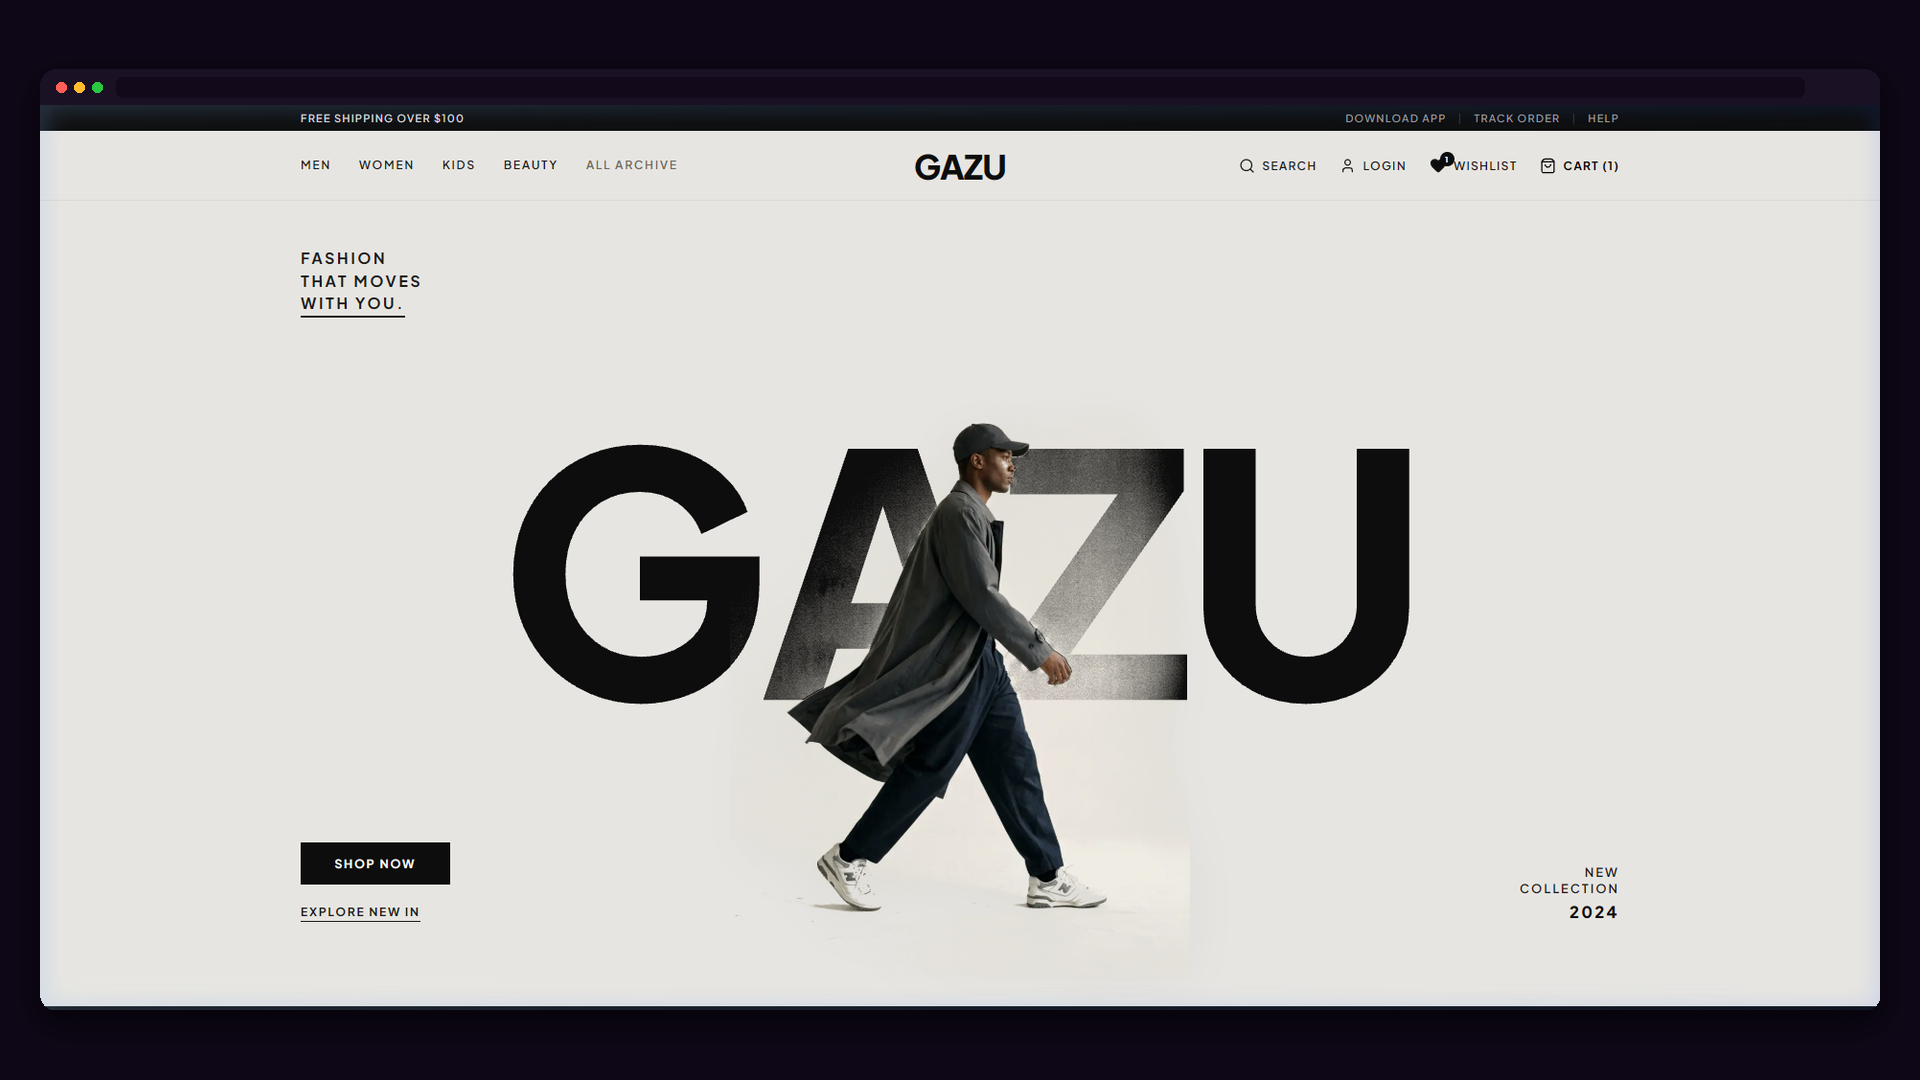
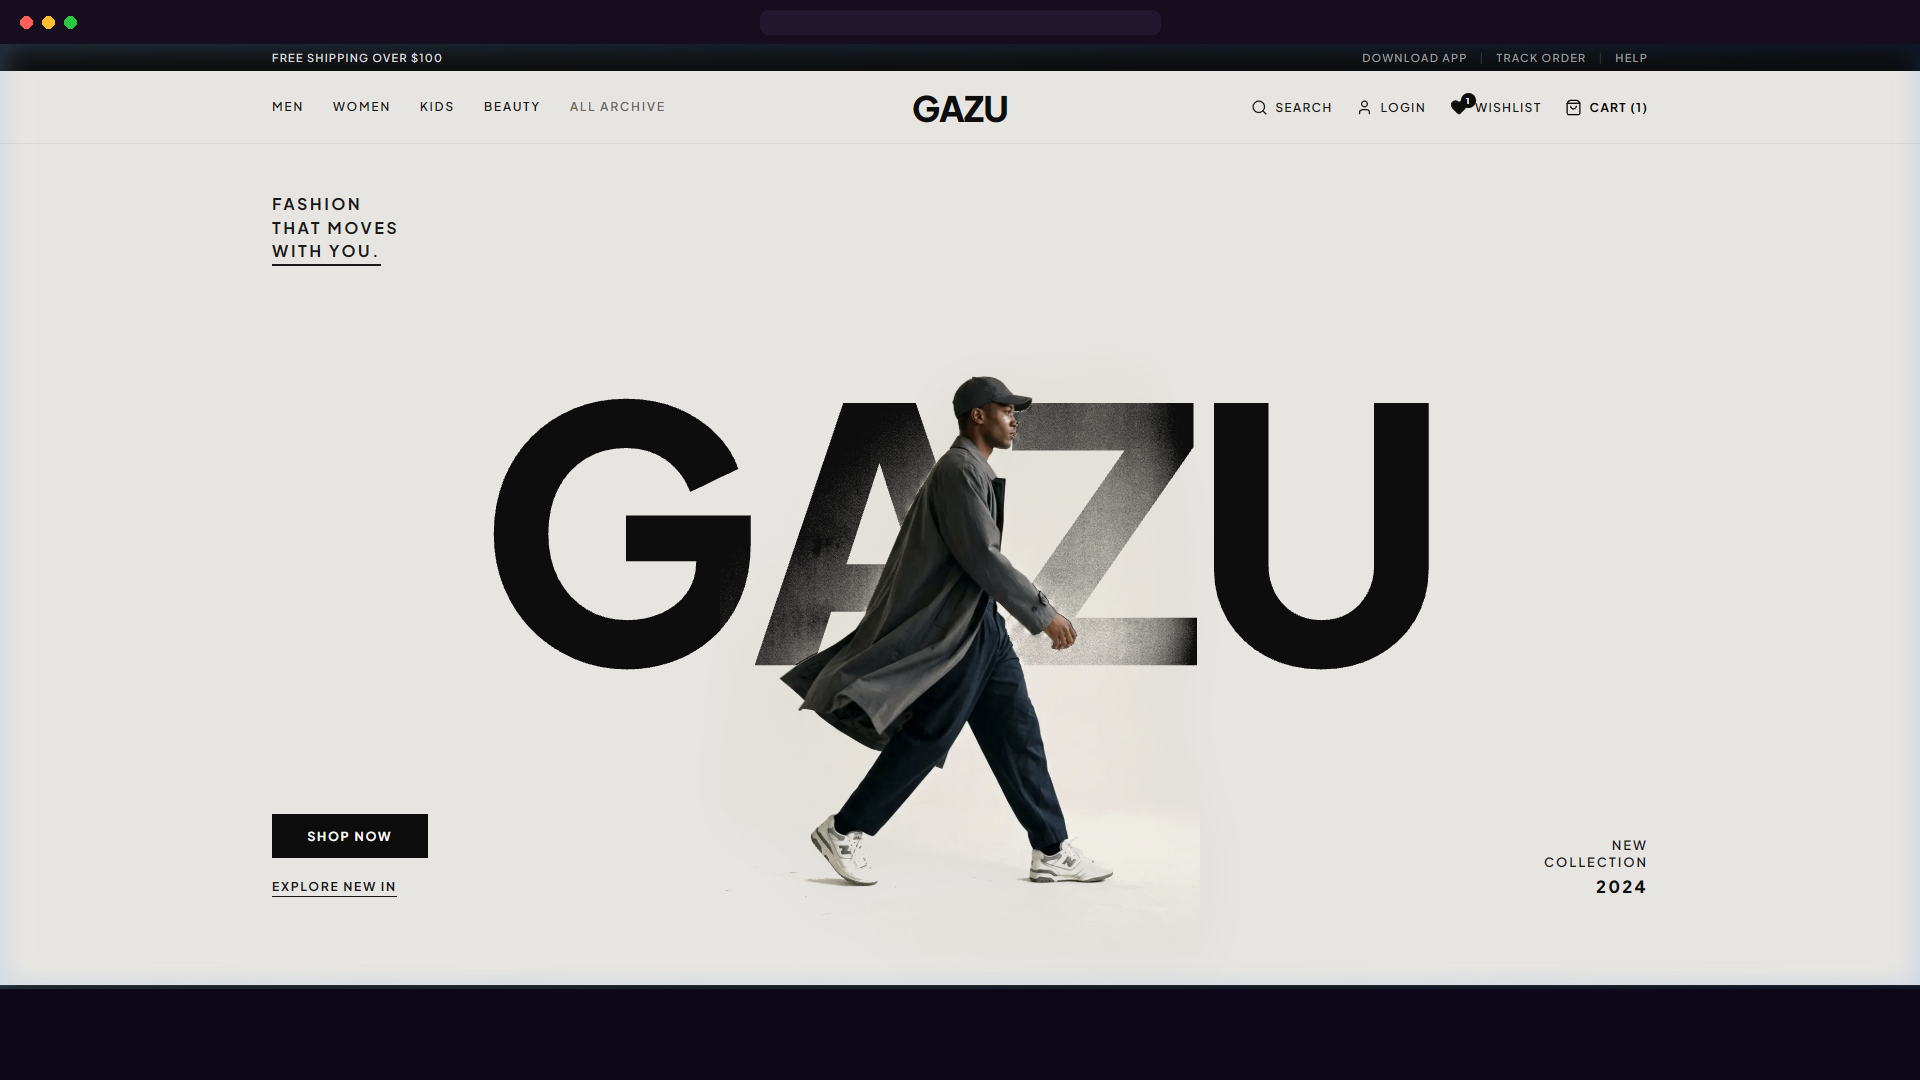
style(projects): expand container to 7xl, reduce card padding and make mockups edge-to-edge

diff --git a/app/components/Projects.tsx b/app/components/Projects.tsx
@@ -53,7 +53,7 @@ export default function Projects() {
       id="projects"
       className="py-24 sm:py-32 px-4 relative z-10 bg-[#0f0715]"
     >
-      <div className="container mx-auto max-w-6xl">
+      <div className="container mx-auto max-w-7xl">
         {/* GEROLD'S CENTERED SECTION HEADER */}
         <div className="text-center max-w-2xl mx-auto mb-10 sm:mb-14">
           <h2 className="text-3xl sm:text-4xl lg:text-5xl font-extrabold tracking-tight mb-4">
@@ -103,7 +103,7 @@ export default function Projects() {
             >
               <Link
                 href={`/projects/${project.slug}`}
-                className="group relative block rounded-[32px] bg-[#140c1c] border border-white/10 hover:border-[#8750f7]/60 p-5 sm:p-7 md:p-8 transition-all duration-500 overflow-hidden hover:shadow-2xl hover:shadow-[#8750f7]/25"
+                className="group relative block rounded-[28px] sm:rounded-[32px] bg-[#140c1c] border border-white/10 hover:border-[#8750f7]/60 p-3.5 sm:p-5 md:p-6 transition-all duration-500 overflow-hidden hover:shadow-2xl hover:shadow-[#8750f7]/25"
               >
                 {/* Framed Image Container (16:9 widescreen to fit app captures without crops) */}
                 <div className="relative aspect-[16/9] w-full rounded-2xl sm:rounded-[24px] overflow-hidden bg-[#09040d]">
@@ -112,7 +112,7 @@ export default function Projects() {
                       src={project.heroImage}
                       alt={project.title}
                       fill
-                      sizes="(max-width: 1024px) 100vw, 560px"
+                      sizes="(max-width: 1024px) 100vw, 680px"
                       className="object-cover object-center filter brightness-[0.96] group-hover:scale-105 group-hover:brightness-105 transition-all duration-700 ease-out"
                     />
                   ) : (
